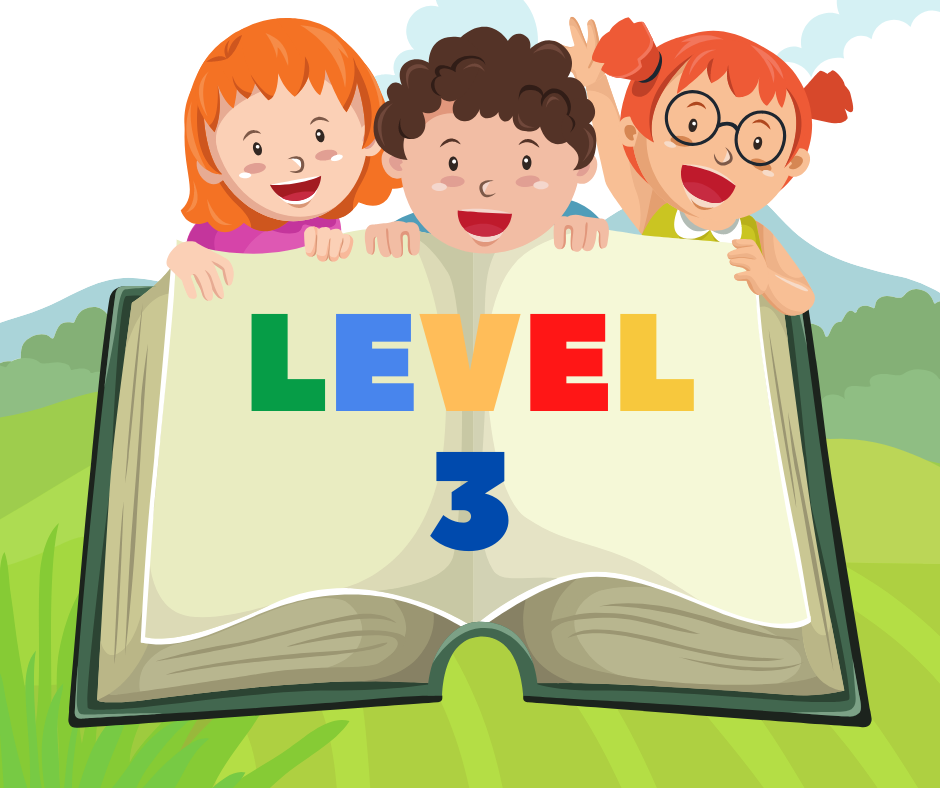
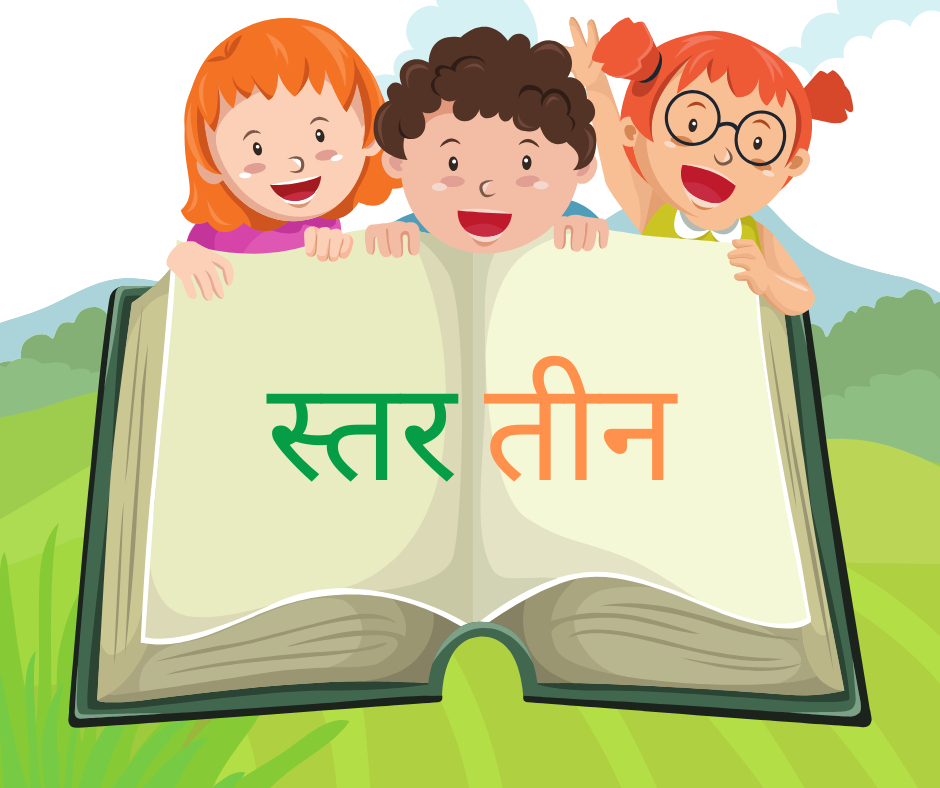
changed to nepali

Changed region(s): [[0.2468, 0.3959, 0.7404, 0.7005]]

diff --git a/index.html b/index.html
@@ -32,16 +32,22 @@
     <!-- Start: 1 Row 2 Columns -->
     <div style="margin-top: 2em;margin-bottom: 2em;">
         <div class="container">
-            <div class="row">
-                <div class="col-md-6">
-                    <div class="card" style="color: white;background: initial;border: 0px;">
-                        <div class="card-body" style="/*align-content: center;*/text-align: center;/*background: white;*/"><a class="card-link" href="level1.html"><img class="img-fluid border rounded shadow" data-bs-hover-animate="pulse" src="assets/img/1.png?h=909dd65b43c9040b4b6d4b0e567cb8c6" width="70%"></a></div>
-                    </div>
+            <div class="row text-center">
+                <div class="col-md-6 col-lg-6">
+                    <a href="#">
+                        <div class="card" data-bs-hover-animate="pulse"><img class="card-img w-100 d-block" src="assets/img/1.png?h=777c03ed204ac363430858982dd12c0d">
+                            <p class="text-center"><br>स्तर १ पुस्तक जो बच्चाहरूको लागि पढ्न सुरू गर्न उत्सुक छन्।<br><br></p>
+                            <div class="card-img-overlay"></div>
+                        </div>
+                    </a>
                 </div>
-                <div class="col-md-6">
-                    <div class="card" style="background: inherit;border: 0px;">
-                        <div class="card-body" style="text-align: center;"><a class="card-link" href="level2.html"><img class="img-fluid border rounded shadow" data-bs-hover-animate="pulse" src="assets/img/2.png?h=e387533cd289275d17f19b59e38d3310" width="70%"></a></div>
-                    </div>
+                <div class="col-md-6 col-lg-6">
+                    <a href="#">
+                        <div class="card" data-bs-hover-animate="pulse"><img class="card-img w-100 d-block" src="assets/img/2.png?h=742b0b54cf97aa68860743a40f4e07d0">
+                            <p class="text-center"><br>स्तर १ पुस्तक जो बच्चाहरूको लागि पढ्न सुरू गर्न उत्सुक छन्।<br><br></p>
+                            <div class="card-img-overlay"></div>
+                        </div>
+                    </a>
                 </div>
             </div>
         </div>
@@ -52,14 +58,20 @@
         <div class="container">
             <div class="row">
                 <div class="col-md-6">
-                    <div class="card" style="background: inherit;border: 0px;">
-                        <div class="card-body" style="text-align: center;"><a class="card-link" href="level3.html"><img class="img-fluid border rounded shadow" data-bs-hover-animate="pulse" src="assets/img/3.png?h=1a83adeebd95d361fc18b4cb422fa33c" width="70%"></a></div>
-                    </div>
+                    <a href="#">
+                        <div class="card" data-bs-hover-animate="pulse"><img class="card-img w-100 d-block" src="assets/img/3.png?h=06e25f87311c8d7058783e129fb21622">
+                            <p class="text-center"><br>स्तर १ पुस्तक जो बच्चाहरूको लागि पढ्न सुरू गर्न उत्सुक छन्।<br><br></p>
+                            <div class="card-img-overlay"></div>
+                        </div>
+                    </a>
                 </div>
                 <div class="col-md-6">
-                    <div class="card" style="background: inherit;border: 0px;">
-                        <div class="card-body" style="text-align: center;"><a class="card-link" href="level4.html"><img class="img-fluid border rounded shadow" data-bs-hover-animate="pulse" src="assets/img/4.png?h=88d588bf9b8781a7c9dd93cbd7be271f" width="70%"></a></div>
-                    </div>
+                    <a href="#">
+                        <div class="card" data-bs-hover-animate="pulse"><img class="card-img w-100 d-block" src="assets/img/4.png?h=5445697e231af46bf24ccc9df88a0fd3">
+                            <p class="text-center"><br>स्तर १ पुस्तक जो बच्चाहरूको लागि पढ्न सुरू गर्न उत्सुक छन्।<br><br></p>
+                            <div class="card-img-overlay"></div>
+                        </div>
+                    </a>
                 </div>
             </div>
         </div>
